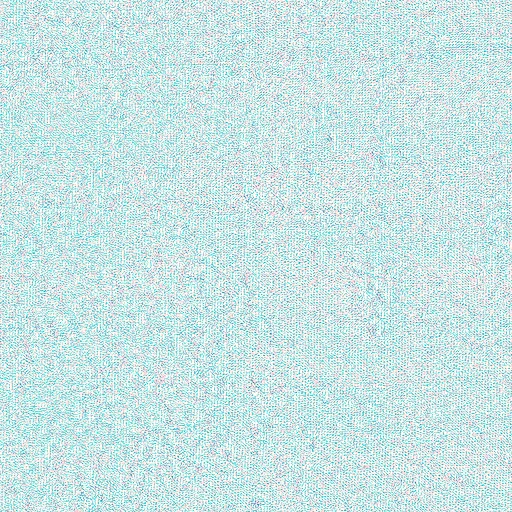
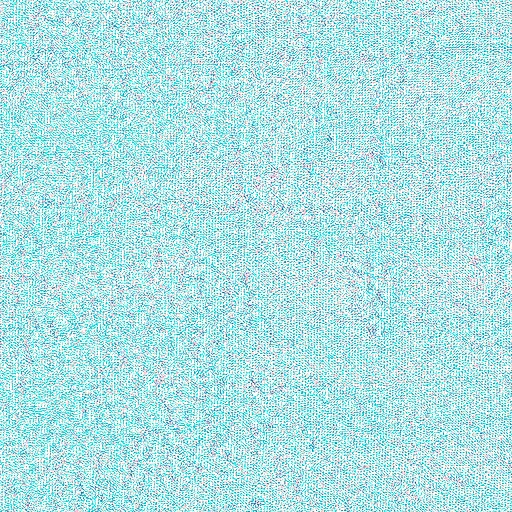
Cloth pass: baked stitching and crease shading, higher-contrast fabrics, spring-driven cloth sway, hanging blazer
Claude-Session: https://claude.ai/code/session_01VaJXKykX22U24ECZ6rjhKc

diff --git a/apps/client/src/lab/procedural/clothSway.ts b/apps/client/src/lab/procedural/clothSway.ts
@@ -1,0 +1,80 @@
+import * as THREE from "three";
+
+/**
+ * Cheap cloth motion for hanging garments, with no per-vertex simulation: the person's own movement drives one spring, and the shader
+ * moves each vertex of the cloth by that spring in proportion to how loose it is (the `sway` attribute: nothing at the waist, most at the
+ * hem). A skirt lags when you start, swings forward when you stop, billows out as you speed up, and ripples a little. One spring per
+ * person and a few lines of vertex shader, so it costs next to nothing on a phone.
+ */
+
+export interface SwayUniforms {
+  uDrag: { value: THREE.Vector3 };
+  uTime: { value: number };
+  uFlutter: { value: number };
+  uBillow: { value: number };
+  uAxis: { value: THREE.Vector2 };
+}
+
+export class Sway {
+  readonly uniforms: SwayUniforms = {
+    uDrag: { value: new THREE.Vector3() },
+    uTime: { value: 0 },
+    uFlutter: { value: 0.002 },
+    uBillow: { value: 0 },
+    uAxis: { value: new THREE.Vector2() },
+  };
+  private velocity = new THREE.Vector3();
+  private lag = new THREE.Vector3();
+  private lagSpeed = new THREE.Vector3();
+  private last: THREE.Vector3 | null = null;
+  private inv = new THREE.Quaternion();
+
+  /** `pelvis`: where the hips are in the world now; `root`: the person's world rotation (the cloth is moved in the person's own space). */
+  update(dt: number, pelvis: THREE.Vector3, root: THREE.Quaternion): void {
+    dt = Math.min(dt, 0.05);
+    if (dt <= 0) return;
+    if (this.last) {
+      const v = pelvis.clone().sub(this.last).divideScalar(dt);
+      if (v.length() > 8) v.set(0, 0, 0); // a jump (a teleport), not a movement
+      this.velocity.lerp(v, 1 - Math.exp(-12 * dt));
+    }
+    this.last = (this.last ?? new THREE.Vector3()).copy(pelvis);
+    const local = this.velocity.clone().applyQuaternion(this.inv.copy(root).invert());
+    local.y *= 0.3;
+    const target = local.multiplyScalar(-0.04);
+    if (target.length() > 0.1) target.setLength(0.1);
+    // a spring: the cloth is pulled toward where the movement wants it and overshoots a little
+    this.lagSpeed.addScaledVector(target.clone().sub(this.lag), 60 * dt).addScaledVector(this.lagSpeed, -7 * dt);
+    this.lag.addScaledVector(this.lagSpeed, dt);
+    const speed = Math.min(1, this.velocity.length() / 3);
+    const u = this.uniforms;
+    u.uDrag.value.copy(this.lag);
+    u.uTime.value += dt;
+    u.uFlutter.value = 0.002 + speed * 0.012;
+    u.uBillow.value = speed * 0.03;
+  }
+}
+
+/** Makes a material move with the sway uniforms (its geometry must carry the `sway` attribute). */
+export function applySway(material: THREE.Material, uniforms: SwayUniforms): void {
+  material.onBeforeCompile = (shader) => {
+    Object.assign(shader.uniforms, uniforms);
+    shader.vertexShader = shader.vertexShader
+      .replace("#include <common>", "#include <common>\nattribute float sway;\nuniform vec3 uDrag;\nuniform float uTime;\nuniform float uFlutter;\nuniform float uBillow;\nuniform vec2 uAxis;")
+      .replace(
+        "#include <skinning_vertex>",
+        `#include <skinning_vertex>
+        {
+          float sw = sway;
+          vec2 radial = transformed.xz - uAxis;
+          radial /= max(length(radial), 1e-4);
+          transformed.xz += radial * uBillow * sw;
+          transformed += uDrag * sw;
+          transformed.y -= length(uDrag) * 0.3 * sw;
+          float ph = uTime * 6.0 + transformed.y * 22.0 + atan(transformed.x - uAxis.x, transformed.z - uAxis.y) * 5.0;
+          transformed.xz += radial * sin(ph) * uFlutter * sw;
+        }`,
+      );
+  };
+  material.customProgramCacheKey = () => "sway1";
+}

diff --git a/apps/client/src/lab/avatar.ts b/apps/client/src/lab/avatar.ts
@@ -7,6 +7,7 @@ import { MorphBody } from "./bodyMorph";
 import { STYLISED_HEAD_BOX, headBox, readBodyRest, type BodyRest } from "./procedural/bodyRest";
 import type { FabricId } from "./procedural/fabrics";
 import { clothFor } from "./procedural/cloth";
+import { Sway, applySway } from "./procedural/clothSway";
 import { buildGarment, coversLegs, isProceduralGarment, tieTriangles } from "./procedural/garments";
 import { buildGeometry } from "./procedural/geometryClip";
 import { buildHair } from "./procedural/hair";
@@ -138,6 +139,7 @@ export class Avatar {
     }
     this.morph?.dispose();
     this.morph = morph;
+    this.pelvisBone = null;
 
     const wasPlaying = this.currentAction?.getClip().name;
     this.clearParts();
@@ -540,6 +542,8 @@ export class Avatar {
     this.partRoots.clear();
   }
 
+  private sway = new Sway();
+  private pelvisBone: THREE.Bone | null = null;
   private outfitState: "none" | "underwear" | "towel" | "night" = "none";
 
   /**
@@ -778,7 +782,12 @@ export class Avatar {
     if (!this.bodyRest || !this.skeleton || !this.bodyMesh || !this.bodyScene) return null;
     const result = buildGarment(this.bodyRest, id);
     if (!result) return null;
-    const make = () => new THREE.MeshPhysicalMaterial({ roughness: 0.85, metalness: 0, side: THREE.DoubleSide });
+    const make = () => {
+      const m = new THREE.MeshPhysicalMaterial({ roughness: 0.85, metalness: 0, side: THREE.DoubleSide, vertexColors: true });
+      applySway(m, this.sway.uniforms);
+      return m;
+    };
+    this.sway.uniforms.uAxis.value.set(0, this.bodyRest.joint.get("pelvis")?.z ?? 0);
     const material = result.layers.length > 1 ? result.layers.map(() => make()) : make();
     const skinned = new THREE.SkinnedMesh(result.geometry, material);
     skinned.frustumCulled = false;
@@ -1060,8 +1069,18 @@ export class Avatar {
     for (const [bone, mark] of this.lookMarks) if (bone.quaternion.equals(mark.after)) bone.quaternion.copy(mark.before);
     this.lookMarks.clear();
     this.mixer?.update(delta);
+    this.updateSway(delta);
     this.applyLook(delta);
     this.applyBlink(delta);
+  }
+
+  /** Hanging garments follow the person's movement (see clothSway.ts). */
+  private updateSway(delta: number): void {
+    if (!this.skeleton) return;
+    this.pelvisBone ??= this.skeleton.bones.find((b) => b.name === "pelvis") ?? null;
+    if (!this.pelvisBone) return;
+    this.root.updateMatrixWorld(true);
+    this.sway.update(delta, this.pelvisBone.getWorldPosition(new THREE.Vector3()), this.root.getWorldQuaternion(new THREE.Quaternion()));
   }
 
   // ------------------------------------------------------------------ blinking

diff --git a/apps/client/src/lab/procedural/geometryClip.ts b/apps/client/src/lab/procedural/geometryClip.ts
@@ -8,6 +8,8 @@ export interface Vertex {
   uv: [number, number];
   si: [number, number, number, number];
   sw: [number, number, number, number];
+  /** Baked shading: 1 open cloth, lower in creases and along stitched edges (set by the smoothing pass). */
+  shade?: number;
 }
 
 export type Triangle = [Vertex, Vertex, Vertex];
@@ -156,6 +158,15 @@ function smoothTriangles(triangles: Triangle[], rounds: number): void {
     for (const j of nbr[i]!) avg.add(nn[j]!);
     return avg.normalize();
   });
+  // baked shading: darker where the cloth bridges a hollow (the smoothed surface stands off the body), and along the cut edges and one
+  // ring inside them (hems, cuffs, necklines look stitched)
+  const nearBorder = new Set<number>(border);
+  for (const b of border) for (const j of nbr[b]!) nearBorder.add(j);
+  triangles.forEach((t, ti) => t.forEach((v, k) => {
+    const id = tri[ti]![k]!;
+    const stand = Math.max(0, cur[id]!.clone().sub(pos[id]!).dot(nor[id]!));
+    v.shade = Math.max(0.55, 1 - Math.min(0.4, stand * 14)) * (border.has(id) ? 0.8 : nearBorder.has(id) ? 0.93 : 1);
+  }));
   triangles.forEach((t, ti) => t.forEach((v, k) => {
     const id = tri[ti]![k]!;
     // never move inward past the body: only keep a point if it is at or outside where the body was along its normal
@@ -180,6 +191,7 @@ export function buildGeometry(triangles: Triangle[], options: BuildOptions): THR
   const uv = new Float32Array(count * 2);
   const skinIndex = new Uint16Array(count * 4);
   const skinWeight = new Float32Array(count * 4);
+  const color = new Float32Array(count * 3);
   const p = new THREE.Vector3();
   const n = new THREE.Vector3();
 
@@ -204,6 +216,8 @@ export function buildGeometry(triangles: Triangle[], options: BuildOptions): THR
       const s = options.uvScale;
       const coords = mode === 0 ? [p.z * s, p.y * s] : mode === 1 ? [p.x * s, p.z * s] : [p.x * s, p.y * s];
       uv.set(coords, v * 2);
+      const shade = vert.shade ?? 1;
+      color.set([shade, shade, shade], v * 3);
       skinIndex.set(vert.si, v * 4);
       skinWeight.set(vert.sw, v * 4);
       v++;
@@ -216,5 +230,7 @@ export function buildGeometry(triangles: Triangle[], options: BuildOptions): THR
   geometry.setAttribute("uv", new THREE.BufferAttribute(uv, 2));
   geometry.setAttribute("skinIndex", new THREE.BufferAttribute(skinIndex, 4));
   geometry.setAttribute("skinWeight", new THREE.BufferAttribute(skinWeight, 4));
+  geometry.setAttribute("color", new THREE.BufferAttribute(color, 3));
+  geometry.setAttribute("sway", new THREE.BufferAttribute(new Float32Array(count), 1));
   return geometry;
 }

diff --git a/apps/client/src/lab/HairLabPage.tsx b/apps/client/src/lab/HairLabPage.tsx
@@ -9,7 +9,7 @@ import "./bodylab.css";
 /** A developer page for hair: one person, a close camera (front, side, back, top), every style and colour. Open it at #/hair. */
 export default function HairLabPage() {
   const ref = useRef<HTMLCanvasElement>(null);
-  const live = useRef<{ set(p: Partial<Look>): Promise<void>; view(v: string): void; state(s: "none" | "underwear" | "towel" | "night"): Promise<void> } | null>(null);
+  const live = useRef<{ set(p: Partial<Look>): Promise<void>; view(v: string): void; state(s: "none" | "underwear" | "towel" | "night"): Promise<void>; walk(on: boolean): void } | null>(null);
   const [look, setLook] = useState<Look>({ ...DEFAULT_LOOK, top: null, bottom: null, shoes: null, hair: "p_afro" });
   const [view, setView] = useState("front");
   const [ready, setReady] = useState(false);
@@ -61,6 +61,12 @@ export default function HairLabPage() {
       live.current = {
         set: (p) => (chain = chain.then(async () => { await a.setLook(p); frame(); })),
         view: (nv) => { v = nv; frame(); },
+        walk: (on) => {
+          walking = on;
+          a.play(on ? "Walk_Loop" : "Idle_Loop", 0.2);
+          a.setSpeed(on ? 1.15 : 1);
+          if (!on) a.root.position.set(0, 0, 0);
+        },
         state: (st) => (chain = chain.then(async () => { await a.setOutfitState(st); })),
       };
       (window as unknown as { __hair?: unknown }).__hair = live.current;
@@ -68,9 +74,18 @@ export default function HairLabPage() {
       setReady(true);
     });
     let last = performance.now();
+    let walking = false;
+    let dir = 1;
     const loop = (now: number) => {
       raf = requestAnimationFrame(loop);
-      avatar?.update(Math.min(0.05, (now - last) / 1000));
+      const dt = Math.min(0.05, (now - last) / 1000);
+      if (walking && avatar) {
+        // walk back and forth across the stage at the game's walking speed (the stage is stepped in fixed slices so the cloth sees real speeds)
+        avatar.root.position.x += dir * 1.55 * dt;
+        if (Math.abs(avatar.root.position.x) > 1.2) dir = -dir;
+        avatar.root.rotation.y = dir * Math.PI / 2;
+      }
+      avatar?.update(dt);
       last = now;
       renderer.render(scene, cam);
     };

diff --git a/apps/client/src/lab/procedural/loft.ts b/apps/client/src/lab/procedural/loft.ts
@@ -188,6 +188,18 @@ export function loft(rest: BodyRest, sil: Silhouette, o: LoftOptions): THREE.Buf
   g.setAttribute("uv", new THREE.Float32BufferAttribute(uv, 2));
   g.setAttribute("skinIndex", new THREE.BufferAttribute(new Uint16Array(sIdx), 4));
   g.setAttribute("skinWeight", new THREE.Float32BufferAttribute(sW, 4));
+  // how freely this vertex moves when the person does (nothing at the top, most at the hem), and baked shading: a darker stitched hem
+  const sway: number[] = [], shade: number[] = [];
+  for (let j = 0; j <= rows; j++) for (let i = 0; i < nu; i++) {
+    const t = j / rows;
+    sway.push(Math.pow(t, 1.3));
+    const hem = t > 0.96 ? 0.82 : t > 0.92 ? 0.94 : 1;
+    const top = t < 0.05 ? 0.9 : 1;
+    const fold = 0.93 + 0.07 * Math.sin((i / nu) * Math.PI * 2 * (o.folds ?? 9) + t * 4);
+    shade.push(hem * top * fold, hem * top * fold, hem * top * fold);
+  }
+  g.setAttribute("sway", new THREE.Float32BufferAttribute(sway, 1));
+  g.setAttribute("color", new THREE.Float32BufferAttribute(shade, 3));
   g.setIndex(indices);
   g.computeVertexNormals();
   return g.toNonIndexed();

diff --git a/apps/client/src/lab/procedural/garments.ts b/apps/client/src/lab/procedural/garments.ts
@@ -504,13 +504,9 @@ const SPECS: Record<string, Spec> = {
     slot: "top",
     offset: 0.04,
     smooth: 8,
-    covers: ["spine_01", "spine_02", "spine_03", "pelvis", ...both("clavicle")],
-    cut(tris, rest) {
-      const hem = jointPos(rest, "pelvis").y - 0.1;
-      let out = clipPlane(tris, [0, 1, 0], -hem);
-      out = cutNeckline(out, rest, 0.085, 0.02);
-      return cutSleeves(out, rest, "lowerarm", "hand", 0.88);
-    },
+    covers: [],
+    cut: bodiceCut((r) => jointPos(r, "pelvis").y + 0.06, [0.085, 0.02], ["lowerarm", "hand", 0.88]),
+    lower: hanging({ from: (r) => jointPos(r, "pelvis").y + 0.06, hem: (r) => jointPos(r, "pelvis").y - 0.14, offset: 0.05, top: 0.04, flare: (t) => 0.02 * t, hang: true, follow: 0.5 }),
     open: jacketOpening,
     extras: [
       { select: shirtUnderJacket, offset: 0.024, smooth: 3, color: "#f2efe8" },

diff --git a/apps/client/src/lab/procedural/cloth.ts b/apps/client/src/lab/procedural/cloth.ts
@@ -22,7 +22,7 @@ const NATURAL: Record<string, Weave | "ankara"> = {
 };
 
 /** Tiles per metre: one tile of the picture covers about this much cloth. */
-const TILE: Record<Weave, number> = { cotton: 12, poplin: 12, linen: 9, denim: 8, knit: 6, fleece: 5, wool: 3.5, satin: 6, suiting: 8, towel: 4, pique: 5, brocade: 3, check: 5 };
+const TILE: Record<Weave, number> = { cotton: 8, poplin: 8, linen: 7, denim: 6, knit: 6, fleece: 5, wool: 3.5, satin: 6, suiting: 6, towel: 4, pique: 5, brocade: 3, check: 5 };
 const SHEEN: Partial<Record<Weave, number>> = { satin: 0.3, brocade: 0.2 };
 /** The base roughness is scaled by the roughness picture: how dull each cloth is. */
 const ROUGH: Record<Weave, number> = { cotton: 1, poplin: 0.9, linen: 1, denim: 1, knit: 1, fleece: 1, wool: 1, satin: 0.7, suiting: 0.95, towel: 1, pique: 1, brocade: 0.8, check: 1 };

diff --git a/tools/fabrics/build_fabrics.py b/tools/fabrics/build_fabrics.py
@@ -45,6 +45,8 @@ def main() -> None:
         if grey:
             d = np.repeat(d.mean(axis=2, keepdims=True), 3, axis=2)
         d = d / d.reshape(-1, 3).mean(axis=0) * 0.9
+        # stretch the contrast around the mean so the weave reads at a distance
+        d = 0.9 + (d - 0.9) * 1.7
         Image.fromarray((np.clip(d, 0, 1) * 255).astype(np.uint8)).save(os.path.join(OUT, f"{ours}_d.webp"), quality=86)
         pic("nor_gl").convert("RGB").resize((512, 512), Image.LANCZOS).save(os.path.join(OUT, f"{ours}_n.webp"), quality=86)
         pic("Rough").convert("L").resize((256, 256), Image.LANCZOS).save(os.path.join(OUT, f"{ours}_r.webp"), quality=80)

diff --git a/docs/DEVELOPMENT_LOG.md b/docs/DEVELOPMENT_LOG.md
@@ -351,3 +351,10 @@ Chronological record of decisions and changes. Newest first.
 - `lab/procedural/loft.ts` (silhouette from the body's vertices, lofted hanging cloth with row-to-row smoothing so skirts do not copy the legs), `hanging(...)` and `legCut(...)` in `garments.ts`; new garments: gown, buba, senator, skirt, long skirt, wrapper; nightwear, towel and pyjamas as game states. `neckBase` fixes necklines. Tops that cover the legs hide the bottom (`coversLegs`).
 - `Avatar.setOutfitState`; the controller's `actionId` setter switches it for `shower` and `sleep`.
 - Tests: wardrobe lists, state garments hidden from the wardrobe, long garments (`garments.test.ts`). Whole repo typechecks; client tests 58.
+
+## Cloth pass: detail and movement
+
+- Owner: the cloth did not look real enough, wants more detail that stays fast, and cloth physics if possible.
+- Baked shading on every garment (`shade` vertex colour): darker where the cloth bridges a hollow, along cut edges and one ring in (hems, cuffs and necklines look stitched), folds and a stitched hem on lofted skirts. More contrast in the fabric pictures (`build_fabrics.py` stretches it) and coarser weave tiles so the weave reads.
+- Cloth movement (`lab/procedural/clothSway.ts`): one spring per person driven by the hips' movement; the vertex shader moves each cloth vertex by it in proportion to a `sway` attribute (0 at the waist, 1 at the hem), plus billow and a ripple that grow with speed. A gown trails behind when you walk and swings forward when you stop. It costs one spring per person and a few shader lines, no per-vertex simulation. Lofted garments carry the attribute; garments cut from the body do not move (sleeves and tight tops do not swing).
+- Blazer now hangs over the hips instead of ending as a bodysuit. `#/hair` has a walk button (`__hair.walk`) for checking cloth in motion.
